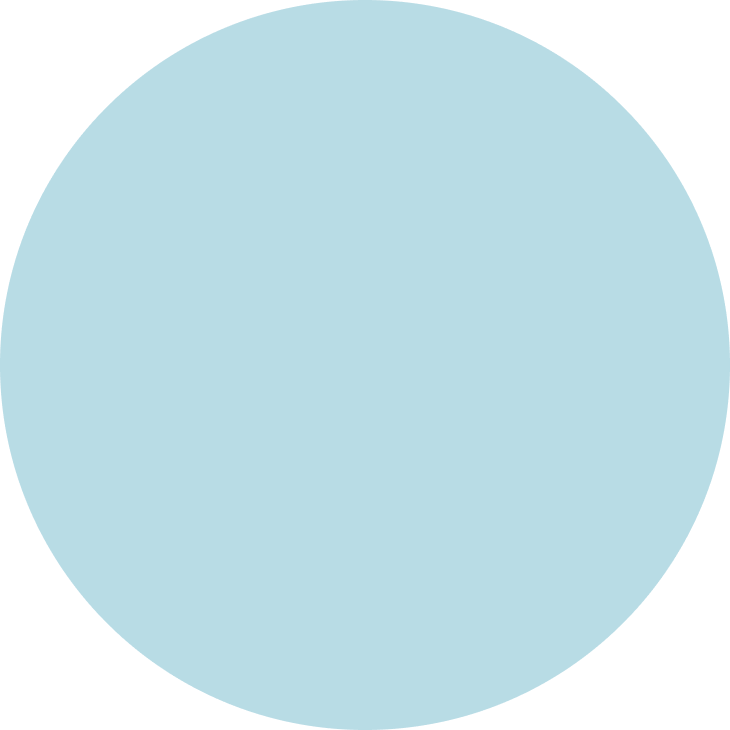
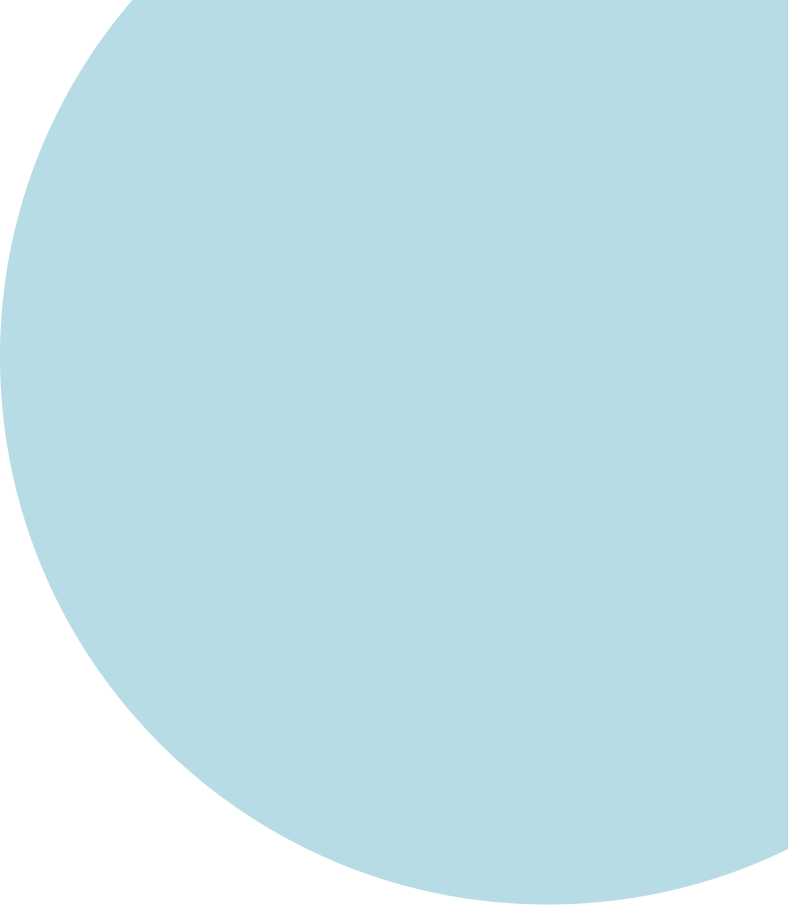
🥅 fix bg circle scroll to right

diff --git a/apps/vgomes-site/src/app/pages/home/home.module.scss b/apps/vgomes-site/src/app/pages/home/home.module.scss
@@ -8,6 +8,7 @@
 
 .big-bg-deco {
     position: absolute;
-    right: -300px;
-    top: -200px;
+    right: 0;
+    top: 0;
+    width: calc(100vw / 3);
 }
